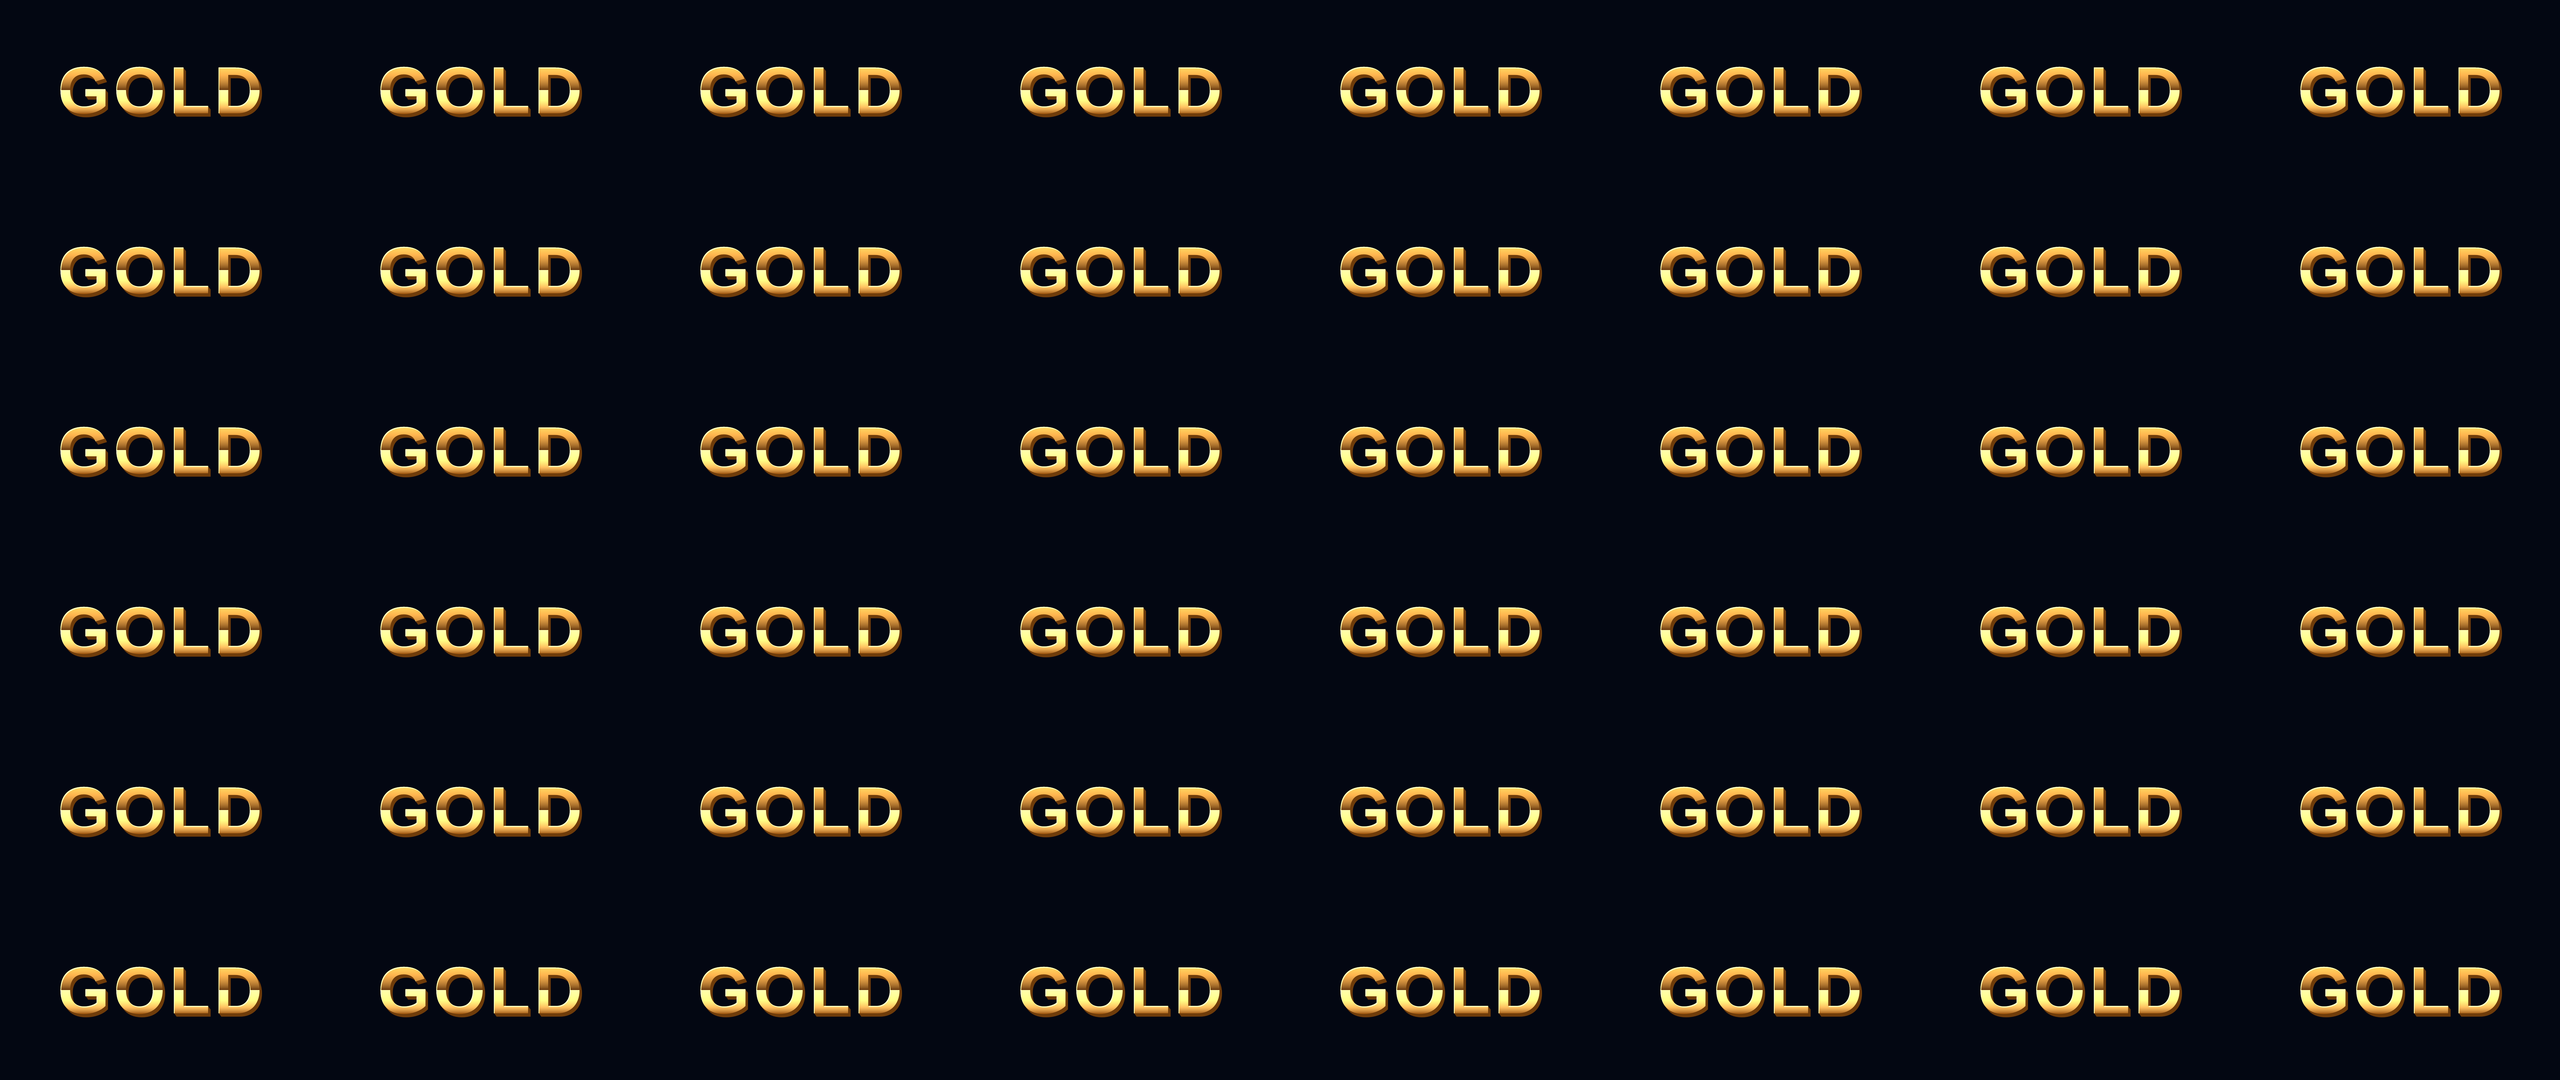
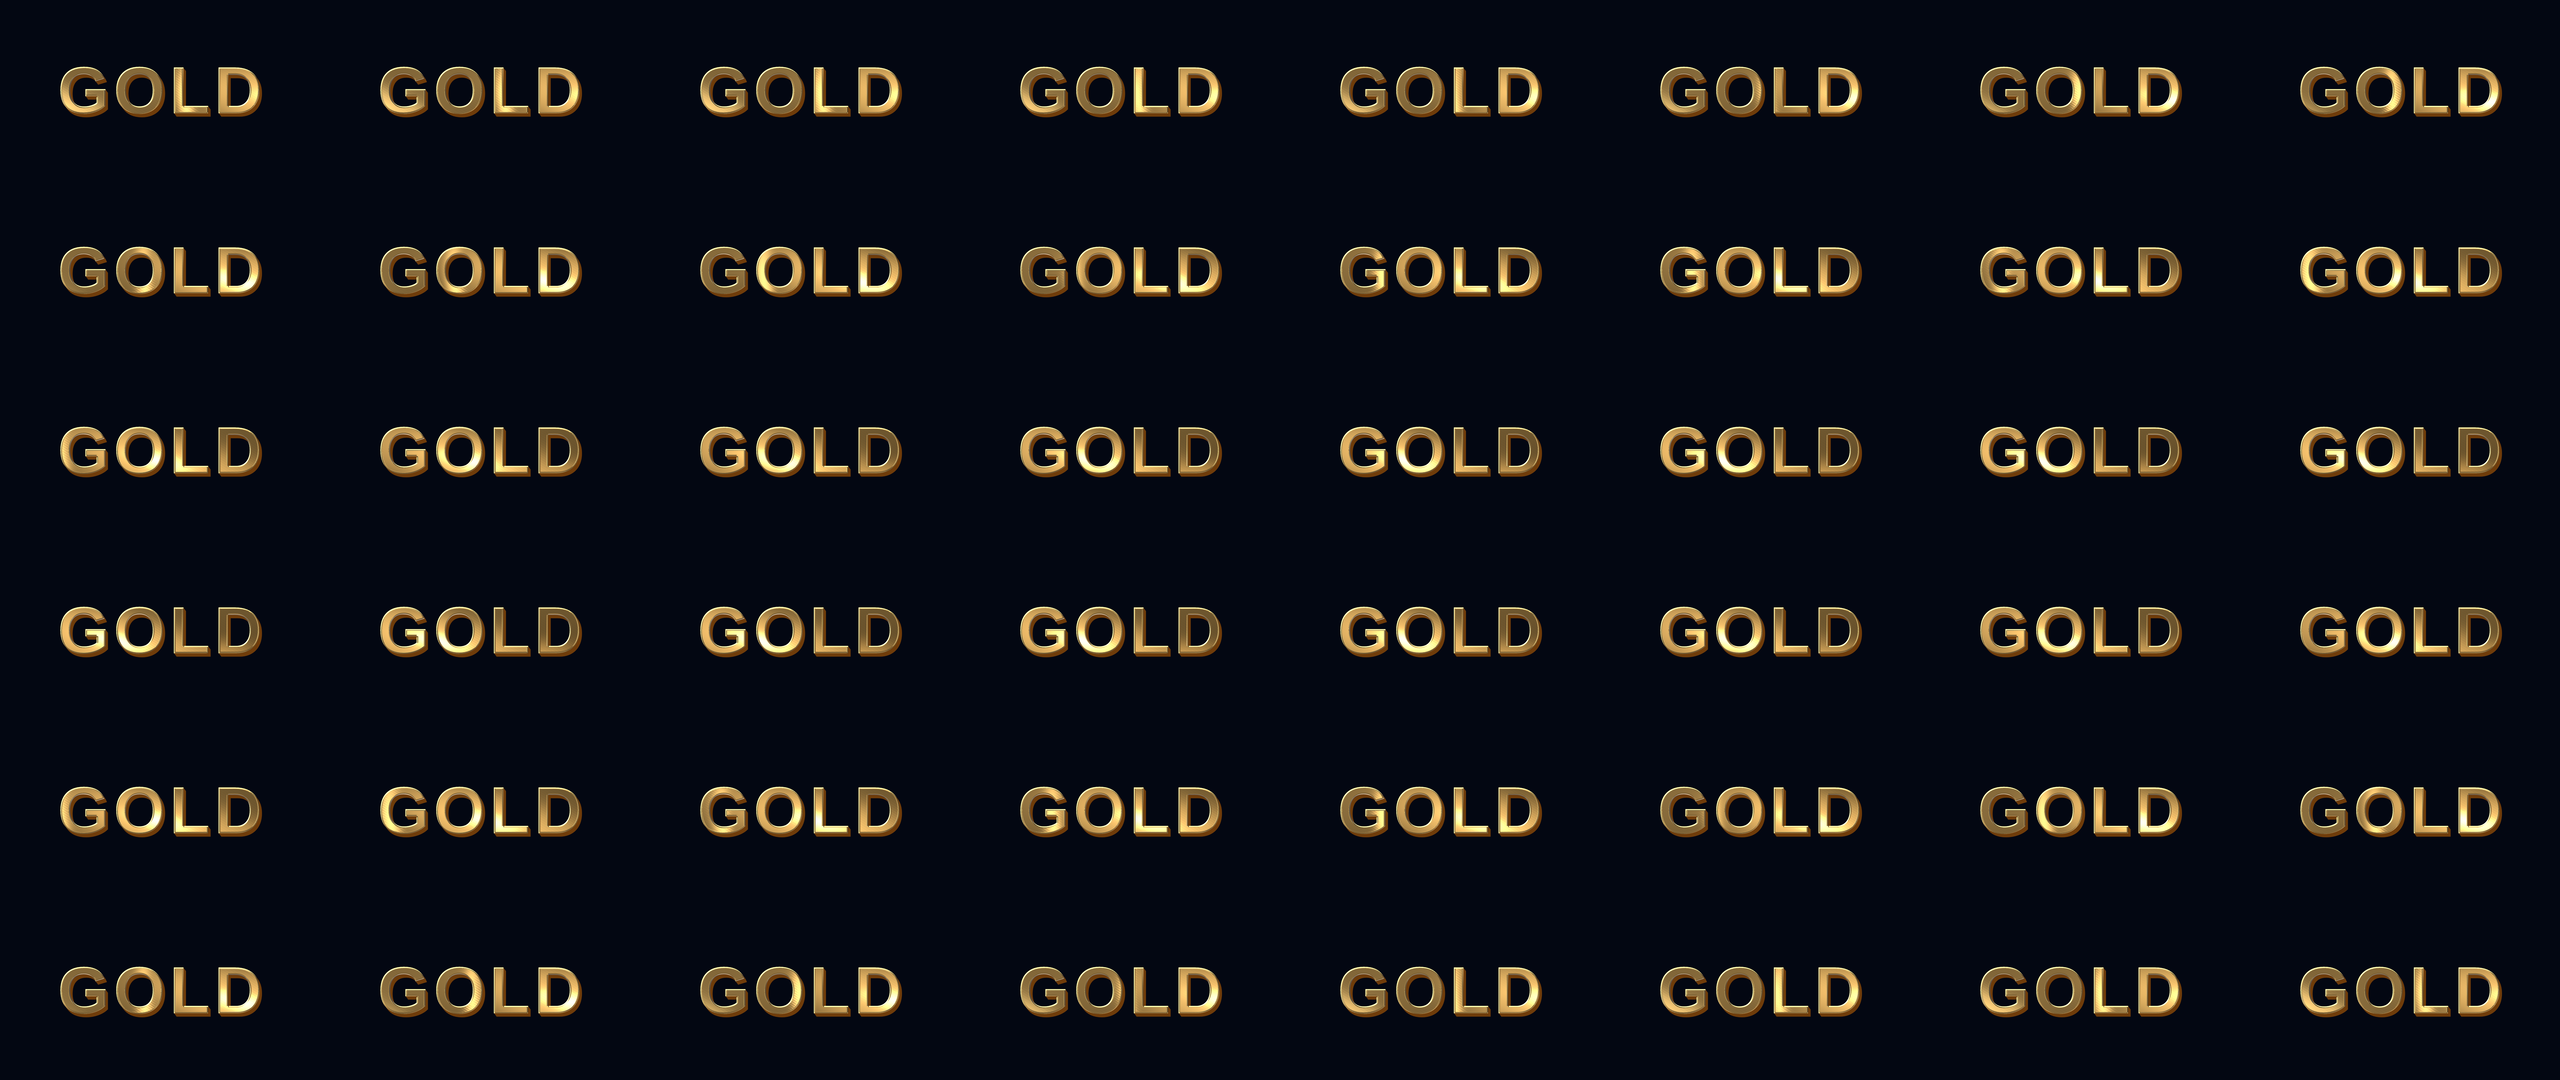
Give metallic materials richer studio reflections
Replace repeating colour bands with reflected studio lights, HDR highlight cores, rim lighting and directional surface grain. Reuse the gold material in shine and fire starters and regenerate the affected library previews so the assets match rendered compositions.

diff --git a/crates/veylvik-document/src/presets/showcase/art_direction.rs b/crates/veylvik-document/src/presets/showcase/art_direction.rs
@@ -230,30 +230,19 @@ fn outline(a: &mut Art, mask: NodeId, dx: f32, dy: f32, color: [f32; 4]) -> Node
 fn gold_fire(a: &mut Art, bg: NodeId, with_fire: bool) -> Result<NodeId> {
     let mask = a.text("GOLD");
     let bg = a.atmosphere(bg, [0.12, 0.012, 0.001, 1.0], 480.0, 300.0, 320.0, 130.0);
-    // Two gradients meet at a sharp polished-metal reflection band.
-    let top = a.palette(
-        "Gold upper reflection",
-        200.0,
-        270.0,
-        [1.5, 0.7, 0.12, 1.0],
-        [0.12, 0.028, 0.002, 1.0],
+    let face = a.node(
+        "Polished gold studio reflections",
+        Operation::Material(crate::nodes::Material {
+            kind: crate::MaterialKind::Gold,
+            scale: 180.0.into(),
+            bevel: 5.0.into(),
+            roughness: 0.15.into(),
+            lighting: cycle(0.0, 0.12),
+            grain: 0.65.into(),
+            emission: 1.0.into(),
+        }),
+        &[("image", mask)],
     );
-    let bottom = a.palette(
-        "Gold lower reflection",
-        270.0,
-        340.0,
-        [2.8, 1.7, 0.42, 1.0],
-        [0.38, 0.11, 0.006, 1.0],
-    );
-    let mut commands = vec![];
-    polygon(
-        &mut commands,
-        &[[0.0, 270.0], [960.0, 270.0], [960.0, 540.0], [0.0, 540.0]],
-    );
-    let lower = a.path("Metal reflection boundary", commands);
-    let bottom = a.mask("Lower gold band", bottom, lower);
-    let gold = a.over("Reflective gold", top, bottom);
-    let face = a.material(mask, gold);
     let mut extrusion = a.solid("Transparent depth", [0.0; 4]);
     let bronze = a.solid("Bronze sides", [0.16, 0.045, 0.003, 1.0]);
     let side = a.mask("Metal side face", bronze, mask);

diff --git a/crates/veylvik-render/tests/appearance.rs b/crates/veylvik-render/tests/appearance.rs
@@ -298,3 +298,37 @@ fn library_spheres_are_finite_antialiased_and_material_specific() {
             .is_err()
     );
 }
+
+#[test]
+#[ignore = "requires Vulkan"]
+fn polished_metal_has_hdr_highlights_and_roughness_softens_them() {
+    let renderer = Renderer::new().unwrap();
+    for kind in [
+        MaterialKind::Gold,
+        MaterialKind::Silver,
+        MaterialKind::Aluminium,
+        MaterialKind::Bronze,
+    ] {
+        let polished = renderer.material_swatch(kind, 0.08, 0.65).unwrap();
+        let rough = renderer.material_swatch(kind, 0.85, 0.65).unwrap();
+        let peak = |pixels: &[[f32; 4]]| {
+            pixels
+                .iter()
+                .filter(|p| p[3] > 0.99)
+                .map(|p| p[0].max(p[1]).max(p[2]))
+                .fold(0.0_f32, f32::max)
+        };
+        assert!(
+            peak(&polished) > 1.0,
+            "polished metal retains HDR highlights"
+        );
+        assert!(
+            peak(&rough) < peak(&polished),
+            "roughness softens specular peaks"
+        );
+        assert!(
+            polished.iter().any(|p| p[3] > 0.99 && p[0] < 0.15),
+            "dark reflections provide metal contrast"
+        );
+    }
+}

diff --git a/crates/veylvik-render/src/material_preview.rs b/crates/veylvik-render/src/material_preview.rs
@@ -58,7 +58,7 @@ impl Renderer {
         let params = Params {
             size_op: [256, 256, 0, kind as u32],
             values: [80., 32., roughness, 0.08],
-            extra: [grain, 1., 0., 0.],
+            extra: [grain, 1., 1., 0.],
         };
         self.queue
             .write_buffer(&uniform, 0, bytemuck::bytes_of(&params));

diff --git a/docs/reference.md b/docs/reference.md
@@ -331,8 +331,9 @@ The optional node field `scene_background` records backdrop intent in saved scen
 and is also available through MCP's node schema.
 
 Apply a material to an isolated text/logo image or a white shape mask. **Text surface**
-replaces RGB using the source alpha: polished metals use studio reflection bands and
-alpha-derived bevel normals, aluminium adds directional brushing, bronze adds
+replaces RGB using the source alpha: polished metals reflect a procedural studio with broad light shapes, narrow HDR
+highlights, dark reflections and alpha-derived bevel normals. Roughness softens
+the reflections, aluminium adds directional brushing, bronze adds
 mottling, wood combines warped growth rings and fine fibers, and phosphor emits
 textured green light. Texture scale, bevel, roughness, grain and reflection motion
 are editable; the Phosphor preset adds adjustable bloom.
